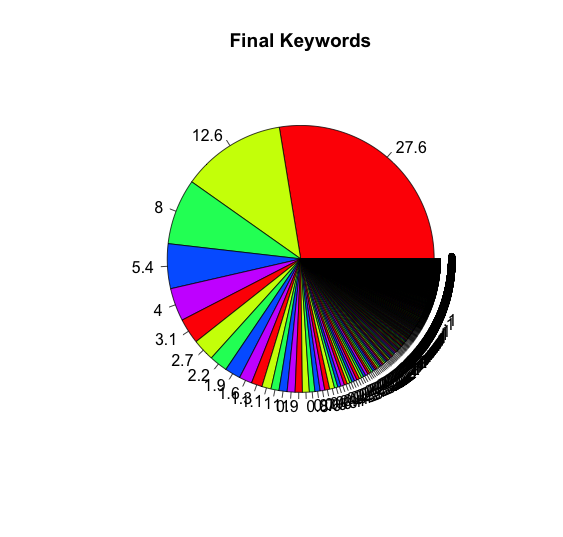
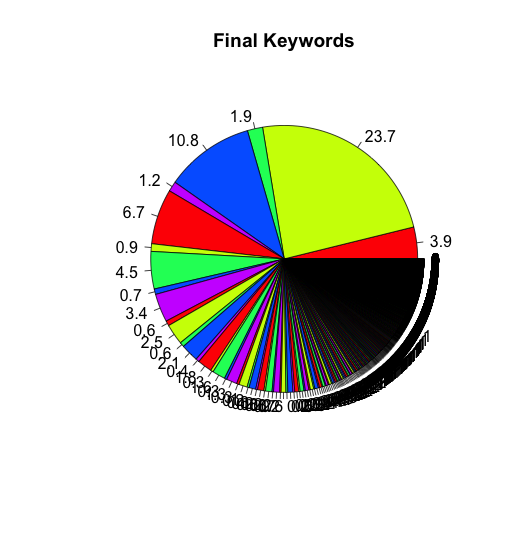
chage lot

Changed region(s): [[0.2113, 0.2086, 0.8453, 0.7747], [0.3925, 0.0596, 0.6642, 0.0894]]

diff --git a/final-keywords.js b/final-keywords.js
@@ -2,7 +2,7 @@ var mapFunction = function(){
     if(this._id=="" || this._id==null || this._id == undefined || this._id ==" "){
         return ;
     }
-    if (this.value > 1) {
+    if (this.value > 2) {
         emit(this._id, this.value);
     }
 } ;

diff --git a/normalization-keywords.py b/normalization-keywords.py
@@ -22,9 +22,9 @@ def calculateCursorTime(limit):
 def isUpdate(obj, keyword):
     try:
         if(None==obj["stem"]):
-            print keyword
+            print "None stem: ", keyword
     except:
-        print keyword
+        print "error: ", keyword
 
 def stemKeyword(keyword):
     try:
